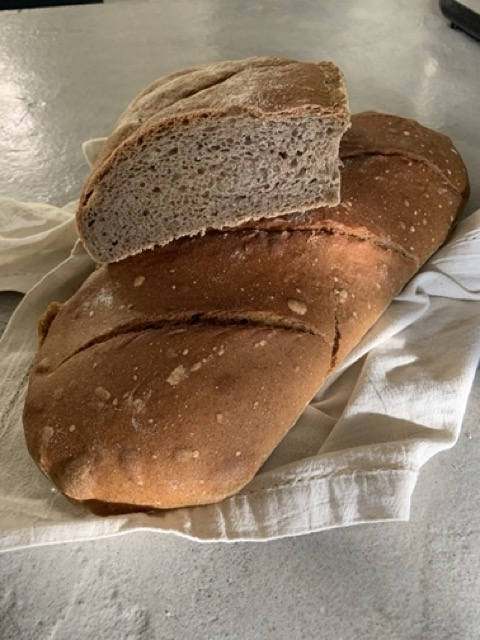
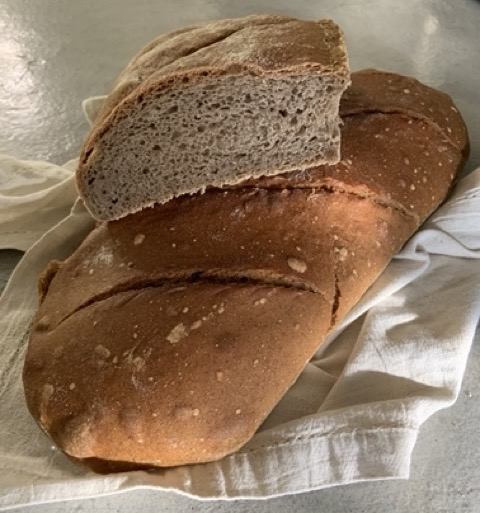
fix: breakfast pictures

diff --git a/ourrooms-en.html b/ourrooms-en.html
@@ -498,7 +498,7 @@
               </div>
               <div class=" section-block">
                 <div class="pictures">
-                  <img src="assets/table/breakfast.jpeg">
+                  <img src="assets/table/babka.jpeg">
                   <img src="assets/table/bread.jpeg">
                 </div>
               </div>

diff --git a/ourrooms-es.html b/ourrooms-es.html
@@ -488,7 +488,7 @@
               </div>
               <div class=" section-block">
                 <div class="pictures">
-                  <img src="assets/table/breakfast.jpeg">
+                  <img src="assets/table/babka.jpeg">
                   <img src="assets/table/bread.jpeg">
                 </div>
               </div>

diff --git a/ourrooms.html b/ourrooms.html
@@ -493,7 +493,7 @@
 
               <div class=" section-block">
                 <div class="pictures">
-                  <img src="assets/table/breakfast.jpeg">
+                  <img src="assets/table/babka.jpeg">
                   <img src="assets/table/bread.jpeg">
                 </div>
               </div>
